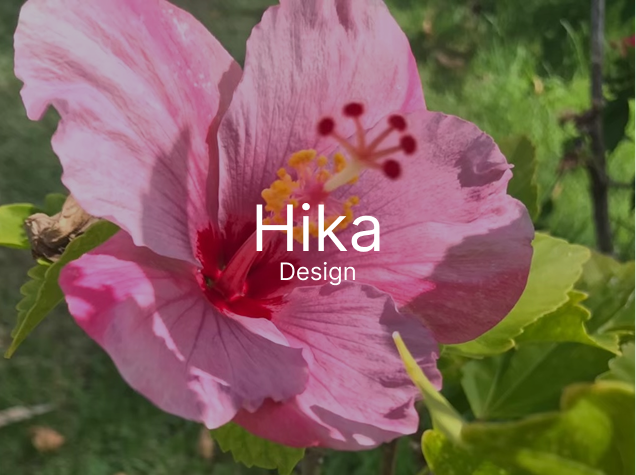
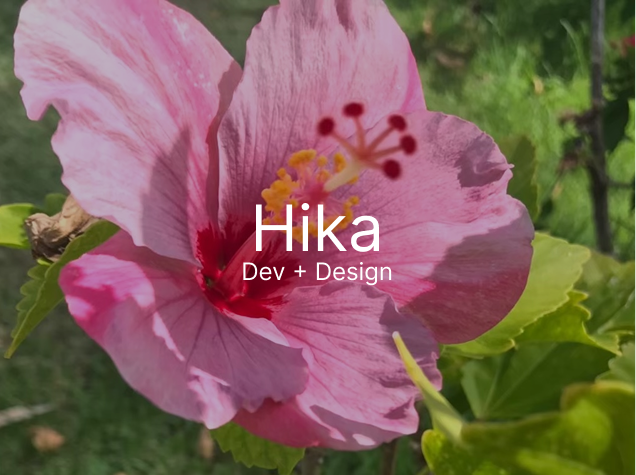
[add] home表示用latest blogレコード取得コードを新規作成

Changed region(s): [[0.4481, 0.4126, 0.5975, 0.5305], [0.3585, 0.56, 0.6274, 0.6189], [0.3884, 0.4421, 0.4182, 0.5305]]

diff --git a/src/hooks/usePostLatest.ts b/src/hooks/usePostLatest.ts
@@ -1,9 +1,9 @@
-import { useEffect, useState } from "react"
+import { useEffect, useState } from "react";
 import { PostListType } from "../type/postListType"
-import { fetchPosts } from "../fetchPosts";
+import { fetchPostLatest } from "../fetchPostsLatest";
 
-export const UsePost = () => {
-  const [posts, setPosts] = useState<PostListType[] | null>(null);
+export const UsePostLatest = () => {
+  const [postLatest, setPostLatest] = useState<PostListType[] | null>(null);
   const [loading, setLoading] = useState(false);
   const [error, setError] = useState<string | null>(null);
 
@@ -11,41 +11,41 @@ export const UsePost = () => {
 
     let cancelled = false;
 
-    const load = async () => {
+    const load = async() => {
       try{
         setLoading(true);
         setError(null);
 
-        const {data, error: fetchError, status} = await fetchPosts();
+        const {data, error: fetchError, status} = await fetchPostLatest();
 
         if(cancelled) return;
 
         if(fetchError) {
           if(status === 404) {
-            setError("Posts not found");
-            setPosts(null);
+            setError("Posts not found") ;
+            setPostLatest(null);
           } else {
             setError(fetchError.message);
-            setPosts(null);
+            setPostLatest(null);
           }
-        } else {
-          setPosts(data);
+        }else {
+          setPostLatest(data);
         }
-      } catch (e) {
+      } catch(e) {
         if(!cancelled) {
           setError(e instanceof Error ? e.message :String(e));
-          setPosts(null);
+          setPostLatest(null);
         }
       } finally {
-        if (!cancelled) setLoading(false);
+        if (!cancelled) setLoading(false)
       }
     };
 
     load();
     return () => {
       cancelled = true;
-    };
+    }
   }, []);
 
-  return {posts, loading, error};
+  return {postLatest, loading, error};
 }

diff --git a/app/HomeClient.tsx b/app/HomeClient.tsx
@@ -2,6 +2,7 @@
 
 import Image from "next/image"
 import Link from "next/link"
+import BlogLatest from "./components/home/blogLatest"
 
 const HomeClient = () => {
   return(
@@ -33,14 +34,15 @@ const HomeClient = () => {
         </div>
 
         {/* Blog */}
-        <div className="md:mx-[75px] md:flex my-20 md:mt-40">
+        <div className="md:mx-[75px] md:flex my-20 md:mt-40 bg-[#F5F5F5] py-[40px]">
           <div className="w-full">
             <h2 className="w-fit mx-auto mb-3 text-[36px] md:text-[48px]">Blog</h2>
+
+            <BlogLatest/>
             <div className="w-fit mx-auto mb-10">
               <Link href="/blog" className="">全ての記事を見る</Link>
               <div className="w-full h-[1px] bg-[#586869]"><span></span></div>
             </div>
-            <div>aaaa</div>
 
 
           </div>
@@ -48,7 +50,7 @@ const HomeClient = () => {
 
 
         {/* Profile */}
-        <div className="md:mx-[75px] md:flex md:mb-20">
+        <div className="md:mx-[75px] md:flex md:mb-20 justify-center">
           <div className="w-full md:w-[635px] h-[475px]">
             <Image
               src="/img/profileIcon.png"

diff --git a/src/fetchPostsLatest.ts b/src/fetchPostsLatest.ts
@@ -2,13 +2,15 @@ import { supabase } from "./lib/supabase";
 import { PostListType } from "./type/postListType";
 
 
-export const fetchPosts = async ():Promise<{data: PostListType[]|null; error:Error|null; status?:number}> => {
+
+export const fetchPostLatest = async (): Promise<{data: PostListType[]|null; error:Error|null; status?:number}> => {
   const {data, error, status}
     = await supabase
       .from('posts')
       .select('id, created_at, title, topImage, category')
       .eq('published', true)
-      .order('created_at', {ascending:false});
+      .order('created_at', {ascending:false})
+      .limit(4)
 
   if(error) {
     return {data: null, error: new Error(error.message), status};

diff --git a/app/components/home/blogLatest.tsx b/app/components/home/blogLatest.tsx
@@ -1,0 +1,28 @@
+import { UsePostLatest } from "@/src/hooks/usePostLatest"
+import Loading from "../common/loading";
+import Bloggrid from "../blog/bloggrid";
+
+const BlogLatest = () => {
+
+  // カスタムフックの呼び出し
+  const {postLatest, loading, error} = UsePostLatest();
+
+  if (loading) {
+    return <Loading />
+  }
+
+  if (error) {
+    return <h3>Error: {error}</h3>
+  }
+
+  if (!postLatest) {
+    return <h3>Posts not found</h3>
+ }
+
+ return(
+  <Bloggrid posts={postLatest}/>
+ )
+
+}
+
+export default BlogLatest

diff --git a/app/components/blog/bloggrid.tsx b/app/components/blog/bloggrid.tsx
@@ -1,9 +1,9 @@
-import { PostType } from "@/src/type/postsType"
+import { PostListType } from "@/src/type/postListType"
 import Link from "next/link"
 import Image from "next/image"
 import { CategoryColors } from "@/src/stylecss/categoryColors"
 
-const Bloggrid = ({posts}: {posts: PostType[]}) => {
+const Bloggrid = ({posts}: {posts: PostListType[]}) => {
 
   const sortedItem = [...posts].sort((a, b) => new Date(b.created_at).getTime() - new Date(a.created_at).getTime())
 

diff --git a/src/type/postListType.ts b/src/type/postListType.ts
@@ -1,0 +1,7 @@
+export type PostListType = {
+  id: number;
+  created_at: Date;
+  title: string;
+  topImage: string;
+  category: "UI/UX" | "フロントエンド";
+}
